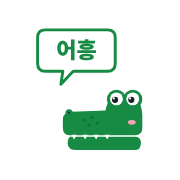
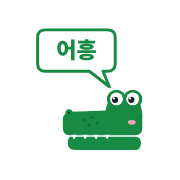
앱 아이콘: 말풍선 꼬리를 악어 쪽으로
Claude-Session: https://claude.ai/code/session_01RWE3yuQaBDvGzczAaa8CdR

Changed region(s): [[0.5, 0.3611, 0.6389, 0.5], [0.3056, 0.3611, 0.4167, 0.4722]]

diff --git a/sw.js b/sw.js
@@ -1,4 +1,4 @@
-const CACHE = 'setlog-v51';
+const CACHE = 'setlog-v52';
 const CORE = ['./', './index.html', './manifest.webmanifest', './icon-192.png', './icon-512.png', './icon-180.png'];
 self.addEventListener('install', e => {
   e.waitUntil(caches.open(CACHE).then(c => c.addAll(CORE)).then(() => self.skipWaiting()));
